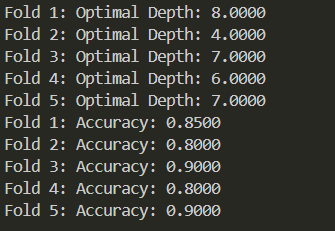
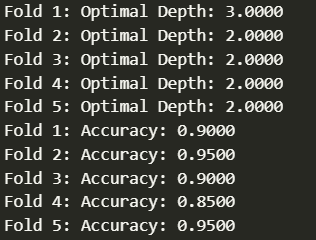
Final touches

diff --git a/DecisionTreeImplementation/Ass1DecisionTreeImplementationQ1b.md b/DecisionTreeImplementation/Ass1DecisionTreeImplementationQ1b.md
@@ -79,8 +79,6 @@ def crossvalidation(X, y):
 #### Explanantion of the function
 
 <ul>
-<li>Firstly, the dataset is shuffled to ensure that there is no bias in the training dataset or the testing points</li>
-
 <li>The number of Folds is defined to be 5 and the fold size is figured out by dividing the length of the dataframe by the number of folds </li>
 
 <li> We then iterate through each fold,(each with different testing and training datasets)</li>
@@ -117,8 +115,4 @@ Then Cross validataion was performed and the accuracies for each fold as well as
 <img src = "../Graphs/output_DTIfold.png"/>
 </center>
 
-The results that we get without shuffling the data are as follows
-
-<center>
-<img src = "../Graphs/output_DTInoShuf.png"/>
-</center>
+We can see that the optimal depth is calculated to be 2 for most folds.
